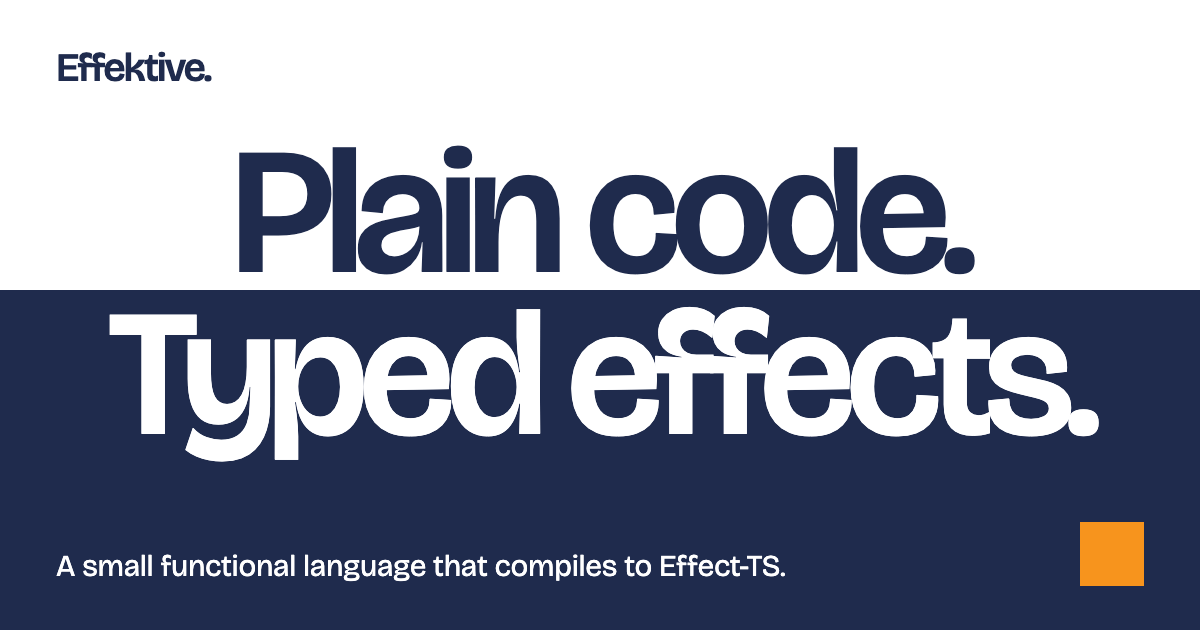
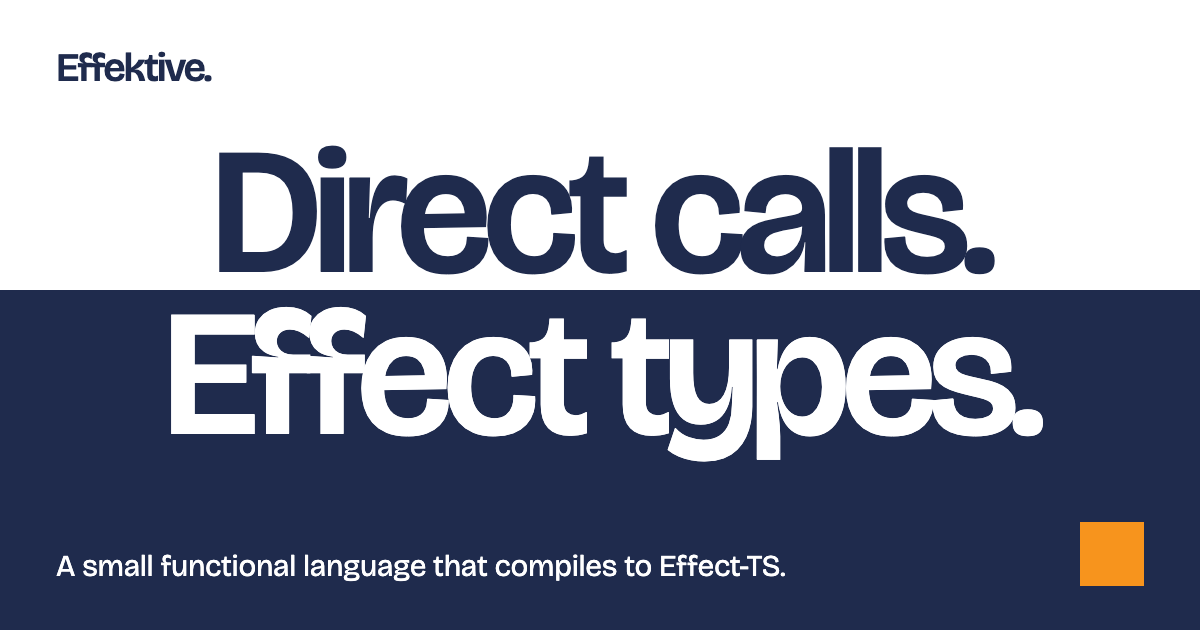
Lead the hero with direct calls and Effect types, and link the compiler
The hero now says what a reader stops writing (Effect.gen and yield*)
and what a contract becomes (Effect.Effect<A, E, R>). The compiler
lexer rejects yield, await, and function as reserved words (syntax/007),
so Effektive has no generator form.

The secondary hero button opens the effektive-lang repository. The top
navigation already links to the specification.

The share card and the image alt text use the new headline.

diff --git a/public/index.html b/public/index.html
@@ -1,8 +1,8 @@
 <!doctype html>
-<html lang="en"><head><meta charset="utf-8"><meta name="viewport" content="width=device-width, initial-scale=1"><meta name="description" content="Effektive is a small functional language that compiles to Effect-TS. Eleven chapters pair each Effektive example with its Effect-TS translation."><title>Effektive - Mini book</title><link rel="canonical" href="https://effektive.timok.deno.net/"><meta property="og:site_name" content="Effektive"><meta property="og:type" content="website"><meta property="og:title" content="Effektive - Mini book"><meta property="og:description" content="Effektive is a small functional language that compiles to Effect-TS. Eleven chapters pair each Effektive example with its Effect-TS translation."><meta property="og:url" content="https://effektive.timok.deno.net/"><meta property="og:image:width" content="1200"><meta property="og:image:height" content="630"><meta property="og:image:alt" content="Effektive. Plain code. Typed effects. A small functional language that compiles to Effect-TS."><meta property="og:image" content="https://effektive.timok.deno.net/og-image.png"><meta name="twitter:card" content="summary_large_image"><meta name="twitter:title" content="Effektive - Mini book"><meta name="twitter:description" content="Effektive is a small functional language that compiles to Effect-TS. Eleven chapters pair each Effektive example with its Effect-TS translation."><meta name="twitter:image" content="https://effektive.timok.deno.net/og-image.png"><meta name="twitter:image:alt" content="Effektive. Plain code. Typed effects. A small functional language that compiles to Effect-TS."><script type="application/ld+json">{"@context":"https://schema.org","@graph":[{"@type":"WebSite","@id":"https://effektive.timok.deno.net/#website","name":"Effektive","url":"https://effektive.timok.deno.net/","description":"Effektive is a small functional language that compiles to Effect-TS. Eleven chapters pair each Effektive example with its Effect-TS translation.","inLanguage":"en"},{"@type":"TechArticle","@id":"https://effektive.timok.deno.net/#book","headline":"Effektive mini book","name":"Effektive - Mini book","description":"Effektive is a small functional language that compiles to Effect-TS. Eleven chapters pair each Effektive example with its Effect-TS translation.","url":"https://effektive.timok.deno.net/","image":"https://effektive.timok.deno.net/og-image.png","inLanguage":"en","isPartOf":{"@id":"https://effektive.timok.deno.net/#website"}}]}</script><link rel="icon" href="data:,"><link rel="stylesheet" href="site.css?v=0.13.2"><script src="site.js?v=0.13.2" defer></script></head>
+<html lang="en"><head><meta charset="utf-8"><meta name="viewport" content="width=device-width, initial-scale=1"><meta name="description" content="Effektive is a small functional language that compiles to Effect-TS. Eleven chapters pair each Effektive example with its Effect-TS translation."><title>Effektive - Mini book</title><link rel="canonical" href="https://effektive.timok.deno.net/"><meta property="og:site_name" content="Effektive"><meta property="og:type" content="website"><meta property="og:title" content="Effektive - Mini book"><meta property="og:description" content="Effektive is a small functional language that compiles to Effect-TS. Eleven chapters pair each Effektive example with its Effect-TS translation."><meta property="og:url" content="https://effektive.timok.deno.net/"><meta property="og:image:width" content="1200"><meta property="og:image:height" content="630"><meta property="og:image:alt" content="Effektive. Direct calls. Effect types. A small functional language that compiles to Effect-TS."><meta property="og:image" content="https://effektive.timok.deno.net/og-image.png"><meta name="twitter:card" content="summary_large_image"><meta name="twitter:title" content="Effektive - Mini book"><meta name="twitter:description" content="Effektive is a small functional language that compiles to Effect-TS. Eleven chapters pair each Effektive example with its Effect-TS translation."><meta name="twitter:image" content="https://effektive.timok.deno.net/og-image.png"><meta name="twitter:image:alt" content="Effektive. Direct calls. Effect types. A small functional language that compiles to Effect-TS."><script type="application/ld+json">{"@context":"https://schema.org","@graph":[{"@type":"WebSite","@id":"https://effektive.timok.deno.net/#website","name":"Effektive","url":"https://effektive.timok.deno.net/","description":"Effektive is a small functional language that compiles to Effect-TS. Eleven chapters pair each Effektive example with its Effect-TS translation.","inLanguage":"en"},{"@type":"TechArticle","@id":"https://effektive.timok.deno.net/#book","headline":"Effektive mini book","name":"Effektive - Mini book","description":"Effektive is a small functional language that compiles to Effect-TS. Eleven chapters pair each Effektive example with its Effect-TS translation.","url":"https://effektive.timok.deno.net/","image":"https://effektive.timok.deno.net/og-image.png","inLanguage":"en","isPartOf":{"@id":"https://effektive.timok.deno.net/#website"}}]}</script><link rel="icon" href="data:,"><link rel="stylesheet" href="site.css?v=0.13.2"><script src="site.js?v=0.13.2" defer></script></head>
 <body id="top" class="book-page"><a class="skip" href="#content">Skip to content</a>
 <header class="topbar"><a class="brand" href="index.html">Effektive<span class="brand-period" aria-hidden="true">.</span></a><nav class="toplinks" aria-label="Documents"><a href="index.html" aria-current="page">Mini book</a><a href="effektive-spec.html">Specification</a></nav></header>
-<main id="site-content"><section class="hero" aria-labelledby="hero-heading"><div class="hero-type"><h1 id="hero-heading"><span>Plain code.</span><span>Typed effects.</span><i class="hero-spark" aria-hidden="true">✳</i></h1></div><div class="hero-bottom"><p class="subtitle">Effektive is a small functional language that compiles to Effect-TS. The compiler rejects any failure or service call that a function&#x27;s contract leaves out.</p><div class="hero-actions"><a class="button primary-action" href="#orientation">Read the mini book <span aria-hidden="true">↓</span></a><a class="button secondary-action" href="effektive-spec.html">Read the specification <span class="arrow-out" aria-hidden="true">↑</span></a></div></div><video class="hero-video" controls playsinline preload="none" poster="media/demo-20261026.webp" width="1920" height="1132" aria-label="Effektive demo"><source src="media/demo-20261026.av1.mp4" type='video/mp4; codecs="av01.0.08M.08, opus"'><source src="media/demo-20261026.h264.mp4" type='video/mp4; codecs="avc1.640028, mp4a.40.2"'><track kind="captions" src="media/demo-20261026.vtt" srclang="en" label="English"></video></section><section class="showcase" id="contracts-explorer" aria-labelledby="explorer-heading"><h2 id="explorer-heading">Read a contract.</h2><form data-contract-explorer><div class="contract-controls" hidden><label class="visually-hidden" for="contract-function">Function name</label><div class="function-input"><input id="contract-function" name="function" value="getUser" list="function-names" autocomplete="off" spellcheck="false" aria-describedby="contract-message"><button type="submit" aria-label="Show function contract"><svg viewBox="0 0 24 24" width="24" height="24" fill="none" stroke="currentColor" stroke-width="2" aria-hidden="true"><path d="M20 4v7a4 4 0 0 1-4 4H5"/><path d="m10 10-5 5 5 5"/></svg></button></div><datalist id="function-names"><option value="getUser"></option><option value="rename"></option><option value="displayName"></option><option value="activeNames"></option></datalist><div class="function-choices" aria-label="Example functions"><button type="button" data-function="getUser" aria-pressed="true">Lookup</button><button type="button" data-function="rename" aria-pressed="false">Rename</button><button type="button" data-function="displayName" aria-pressed="false">Recover</button><button type="button" data-function="activeNames" aria-pressed="false">Collect</button></div></div><div class="contract-result"><span class="contract-signal" aria-hidden="true"></span><figure class="code contract-source" data-ui data-tabs data-check="explorer-getUser" data-check-requires="users-declarations"><figcaption>Selected contract <a href="effektive-examples/users.eff">View Users source</a></figcaption><div class="code-panel" data-tab="Effektive"><pre id="contract-source" tabindex="0"><code class="language-effektive">export const getUser = (id: UserId): User
+<main id="site-content"><section class="hero" aria-labelledby="hero-heading"><div class="hero-type"><h1 id="hero-heading"><span>Direct calls.</span><span>Effect types.</span><i class="hero-spark" aria-hidden="true">✳</i></h1></div><div class="hero-bottom"><p class="subtitle">You write direct calls with no <code>Effect.gen</code> and no <code>yield*</code>. The contract of each effectful function compiles to an <code>Effect.Effect&lt;A,&nbsp;E,&nbsp;R&gt;</code> type.</p><div class="hero-actions"><a class="button primary-action" href="#orientation">Read the mini book <span aria-hidden="true">↓</span></a><a class="button secondary-action" href="https://github.com/srdjan/effektive-lang">Try the compiler <span class="arrow-out" aria-hidden="true">↑</span></a></div></div><video class="hero-video" controls playsinline preload="none" poster="media/demo-20261026.webp" width="1920" height="1132" aria-label="Effektive demo"><source src="media/demo-20261026.av1.mp4" type='video/mp4; codecs="av01.0.08M.08, opus"'><source src="media/demo-20261026.h264.mp4" type='video/mp4; codecs="avc1.640028, mp4a.40.2"'><track kind="captions" src="media/demo-20261026.vtt" srclang="en" label="English"></video></section><section class="showcase" id="contracts-explorer" aria-labelledby="explorer-heading"><h2 id="explorer-heading">Read a contract.</h2><form data-contract-explorer><div class="contract-controls" hidden><label class="visually-hidden" for="contract-function">Function name</label><div class="function-input"><input id="contract-function" name="function" value="getUser" list="function-names" autocomplete="off" spellcheck="false" aria-describedby="contract-message"><button type="submit" aria-label="Show function contract"><svg viewBox="0 0 24 24" width="24" height="24" fill="none" stroke="currentColor" stroke-width="2" aria-hidden="true"><path d="M20 4v7a4 4 0 0 1-4 4H5"/><path d="m10 10-5 5 5 5"/></svg></button></div><datalist id="function-names"><option value="getUser"></option><option value="rename"></option><option value="displayName"></option><option value="activeNames"></option></datalist><div class="function-choices" aria-label="Example functions"><button type="button" data-function="getUser" aria-pressed="true">Lookup</button><button type="button" data-function="rename" aria-pressed="false">Rename</button><button type="button" data-function="displayName" aria-pressed="false">Recover</button><button type="button" data-function="activeNames" aria-pressed="false">Collect</button></div></div><div class="contract-result"><span class="contract-signal" aria-hidden="true"></span><figure class="code contract-source" data-ui data-tabs data-check="explorer-getUser" data-check-requires="users-declarations"><figcaption>Selected contract <a href="effektive-examples/users.eff">View Users source</a></figcaption><div class="code-panel" data-tab="Effektive"><pre id="contract-source" tabindex="0"><code class="language-effektive">export const getUser = (id: UserId): User
   fails UserMissing | StoreUnavailable
   uses Users.find =&gt;
   match Users.find(id) {

diff --git a/public/effektive-spec.html b/public/effektive-spec.html
@@ -1,5 +1,5 @@
 <!doctype html>
-<html lang="en"><head><meta charset="utf-8"><meta name="viewport" content="width=device-width, initial-scale=1"><meta name="description" content="The Effektive specification defines the source syntax, type rules, execution behavior, typed IR, and Effect-TS translation of language core 1."><title>Effektive - Specification</title><link rel="canonical" href="https://effektive.timok.deno.net/effektive-spec.html"><meta property="og:site_name" content="Effektive"><meta property="og:type" content="article"><meta property="og:title" content="Effektive - Specification"><meta property="og:description" content="The Effektive specification defines the source syntax, type rules, execution behavior, typed IR, and Effect-TS translation of language core 1."><meta property="og:url" content="https://effektive.timok.deno.net/effektive-spec.html"><meta property="og:image:width" content="1200"><meta property="og:image:height" content="630"><meta property="og:image:alt" content="Effektive. Plain code. Typed effects. A small functional language that compiles to Effect-TS."><meta property="og:image" content="https://effektive.timok.deno.net/og-image.png"><meta name="twitter:card" content="summary_large_image"><meta name="twitter:title" content="Effektive - Specification"><meta name="twitter:description" content="The Effektive specification defines the source syntax, type rules, execution behavior, typed IR, and Effect-TS translation of language core 1."><meta name="twitter:image" content="https://effektive.timok.deno.net/og-image.png"><meta name="twitter:image:alt" content="Effektive. Plain code. Typed effects. A small functional language that compiles to Effect-TS."><script type="application/ld+json">{"@context":"https://schema.org","@graph":[{"@type":"TechArticle","@id":"https://effektive.timok.deno.net/effektive-spec.html#spec","headline":"Effektive language specification","name":"Effektive - Specification","description":"The Effektive specification defines the source syntax, type rules, execution behavior, typed IR, and Effect-TS translation of language core 1.","url":"https://effektive.timok.deno.net/effektive-spec.html","image":"https://effektive.timok.deno.net/og-image.png","inLanguage":"en","isPartOf":{"@type":"WebSite","@id":"https://effektive.timok.deno.net/#website","name":"Effektive","url":"https://effektive.timok.deno.net/"}},{"@type":"BreadcrumbList","itemListElement":[{"@type":"ListItem","position":1,"name":"Effektive","item":"https://effektive.timok.deno.net/"},{"@type":"ListItem","position":2,"name":"Specification","item":"https://effektive.timok.deno.net/effektive-spec.html"}]}]}</script><link rel="icon" href="data:,"><link rel="stylesheet" href="site.css?v=0.13.2"><script src="site.js?v=0.13.2" defer></script></head>
+<html lang="en"><head><meta charset="utf-8"><meta name="viewport" content="width=device-width, initial-scale=1"><meta name="description" content="The Effektive specification defines the source syntax, type rules, execution behavior, typed IR, and Effect-TS translation of language core 1."><title>Effektive - Specification</title><link rel="canonical" href="https://effektive.timok.deno.net/effektive-spec.html"><meta property="og:site_name" content="Effektive"><meta property="og:type" content="article"><meta property="og:title" content="Effektive - Specification"><meta property="og:description" content="The Effektive specification defines the source syntax, type rules, execution behavior, typed IR, and Effect-TS translation of language core 1."><meta property="og:url" content="https://effektive.timok.deno.net/effektive-spec.html"><meta property="og:image:width" content="1200"><meta property="og:image:height" content="630"><meta property="og:image:alt" content="Effektive. Direct calls. Effect types. A small functional language that compiles to Effect-TS."><meta property="og:image" content="https://effektive.timok.deno.net/og-image.png"><meta name="twitter:card" content="summary_large_image"><meta name="twitter:title" content="Effektive - Specification"><meta name="twitter:description" content="The Effektive specification defines the source syntax, type rules, execution behavior, typed IR, and Effect-TS translation of language core 1."><meta name="twitter:image" content="https://effektive.timok.deno.net/og-image.png"><meta name="twitter:image:alt" content="Effektive. Direct calls. Effect types. A small functional language that compiles to Effect-TS."><script type="application/ld+json">{"@context":"https://schema.org","@graph":[{"@type":"TechArticle","@id":"https://effektive.timok.deno.net/effektive-spec.html#spec","headline":"Effektive language specification","name":"Effektive - Specification","description":"The Effektive specification defines the source syntax, type rules, execution behavior, typed IR, and Effect-TS translation of language core 1.","url":"https://effektive.timok.deno.net/effektive-spec.html","image":"https://effektive.timok.deno.net/og-image.png","inLanguage":"en","isPartOf":{"@type":"WebSite","@id":"https://effektive.timok.deno.net/#website","name":"Effektive","url":"https://effektive.timok.deno.net/"}},{"@type":"BreadcrumbList","itemListElement":[{"@type":"ListItem","position":1,"name":"Effektive","item":"https://effektive.timok.deno.net/"},{"@type":"ListItem","position":2,"name":"Specification","item":"https://effektive.timok.deno.net/effektive-spec.html"}]}]}</script><link rel="icon" href="data:,"><link rel="stylesheet" href="site.css?v=0.13.2"><script src="site.js?v=0.13.2" defer></script></head>
 <body id="top" class="spec-page"><a class="skip" href="#content">Skip to content</a>
 <header class="topbar"><a class="brand" href="index.html">Effektive<span class="brand-period" aria-hidden="true">.</span></a><nav class="toplinks" aria-label="Documents"><a href="index.html">Mini book</a><a href="effektive-spec.html" aria-current="page">Specification</a></nav></header>
 <main id="site-content"><section class="reference-hero" aria-labelledby="reference-heading"><h1 id="reference-heading">Language<br>specification.</h1><div class="reference-bottom"><p class="edition">Language core 1. Design draft 0.72. November 3, 2026.</p><a class="button" href="#status">Read the specification <span aria-hidden="true">↓</span></a></div></section><div class="layout" id="reader"><details class="contents-menu"><summary>Chapters</summary><nav class="contents mobile-contents" aria-label="Mobile contents"><ol><li><a href="#status">Status and scope</a></li><li><a href="#overview">A first example</a></li><li><a href="#lexical">Source and lexical rules</a></li><li><a href="#types">Data and types</a></li><li><a href="#functions">Functions and blocks</a></li><li><a href="#services">Services and contracts</a></li><li><a href="#execution">Execution order and mode</a></li><li><a href="#pipelines">Pipelines and collections</a></li><li><a href="#matching">Pattern matching</a></li><li><a href="#recovery">Failure and recovery</a></li><li><a href="#control">Retry and providers</a></li><li><a href="#modules">Modules and boundaries</a></li><li><a href="#ir">Typed IR and backends</a></li><li><a href="#equations">Equations and validation</a></li><li><a href="#grammar">Surface grammar</a></li><li><a href="#diagnostics">Diagnostics and conformance</a></li><li><a href="#core1">Core 1 extensions</a><ol><li><a href="#sink-leftovers">Sink leftovers and synchronous transduction</a></li><li><a href="#references-concurrency">References and concurrent effects</a></li><li><a href="#borrowed-resources">Borrowed resources</a></li><li><a href="#buffered-streams">Buffered streams</a></li><li><a href="#retry-schedules">Retry schedules</a></li><li><a href="#first-class-schemas">First-class Schemas and guarded recursion</a></li><li><a href="#source-layers">Source Layers and host adapters</a></li><li><a href="#typed-ir-migration">Typed IR migration</a></li></ol></li><li><a href="#examples">Examples and deferred work</a></li><li><a href="#sources">Sources and lineage</a></li><li><a href="#history">Change history</a></li></ol><p class="contents-title resources-title">Source and evidence</p><a class="resource" href="typed-ir.ts">Typed IR model</a><a class="resource" href="log.ir.json">Manual IR fixture</a><a class="resource" href="effektive-validation.txt">Validation scope</a><a class="resource" href="effektive-examples/users.eff">Users example</a><a class="resource" href="effektive-examples/pay.eff">Payment example</a><a class="resource" href="effektive-examples/core1.eff">Core 1 example</a><a class="resource" href="effektive-examples/refined-entry.eff">Refined entry example</a><a class="resource" href="effektive-examples/main.eff">Application boundary</a></nav></details><nav class="contents" aria-label="Contents"><ol><li><a href="#status">Status and scope</a></li><li><a href="#overview">A first example</a></li><li><a href="#lexical">Source and lexical rules</a></li><li><a href="#types">Data and types</a></li><li><a href="#functions">Functions and blocks</a></li><li><a href="#services">Services and contracts</a></li><li><a href="#execution">Execution order and mode</a></li><li><a href="#pipelines">Pipelines and collections</a></li><li><a href="#matching">Pattern matching</a></li><li><a href="#recovery">Failure and recovery</a></li><li><a href="#control">Retry and providers</a></li><li><a href="#modules">Modules and boundaries</a></li><li><a href="#ir">Typed IR and backends</a></li><li><a href="#equations">Equations and validation</a></li><li><a href="#grammar">Surface grammar</a></li><li><a href="#diagnostics">Diagnostics and conformance</a></li><li><a href="#core1">Core 1 extensions</a><ol><li><a href="#sink-leftovers">Sink leftovers and synchronous transduction</a></li><li><a href="#references-concurrency">References and concurrent effects</a></li><li><a href="#borrowed-resources">Borrowed resources</a></li><li><a href="#buffered-streams">Buffered streams</a></li><li><a href="#retry-schedules">Retry schedules</a></li><li><a href="#first-class-schemas">First-class Schemas and guarded recursion</a></li><li><a href="#source-layers">Source Layers and host adapters</a></li><li><a href="#typed-ir-migration">Typed IR migration</a></li></ol></li><li><a href="#examples">Examples and deferred work</a></li><li><a href="#sources">Sources and lineage</a></li><li><a href="#history">Change history</a></li></ol><p class="contents-title resources-title">Source and evidence</p><a class="resource" href="typed-ir.ts">Typed IR model</a><a class="resource" href="log.ir.json">Manual IR fixture</a><a class="resource" href="effektive-validation.txt">Validation scope</a><a class="resource" href="effektive-examples/users.eff">Users example</a><a class="resource" href="effektive-examples/pay.eff">Payment example</a><a class="resource" href="effektive-examples/core1.eff">Core 1 example</a><a class="resource" href="effektive-examples/refined-entry.eff">Refined entry example</a><a class="resource" href="effektive-examples/main.eff">Application boundary</a></nav>

diff --git a/assets/og-card.html b/assets/og-card.html
@@ -14,4 +14,4 @@ h1 span + span::before { content: ""; position: absolute; z-index: -1; inset: 0 
 .subtitle { position: absolute; left: 56px; bottom: 44px; color: #ffffff; font-size: 30px; line-height: 1.3; letter-spacing: -.01em; }
 .accent { position: absolute; right: 56px; bottom: 44px; width: 64px; height: 64px; background: #f7941d; }
 </style></head>
-<body><p class="brand">Effektive.</p><h1><span>Plain code.</span><span>Typed effects.</span></h1><p class="subtitle">A small functional language that compiles to Effect-TS.</p><span class="accent" aria-hidden="true"></span></body></html>
+<body><p class="brand">Effektive.</p><h1><span>Direct calls.</span><span>Effect types.</span></h1><p class="subtitle">A small functional language that compiles to Effect-TS.</p><span class="accent" aria-hidden="true"></span></body></html>
